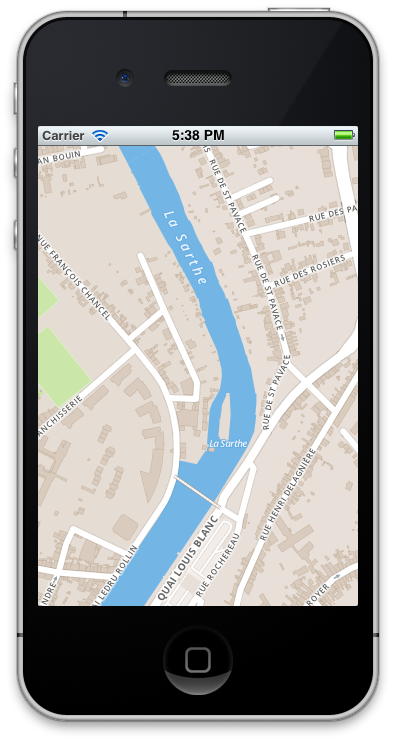
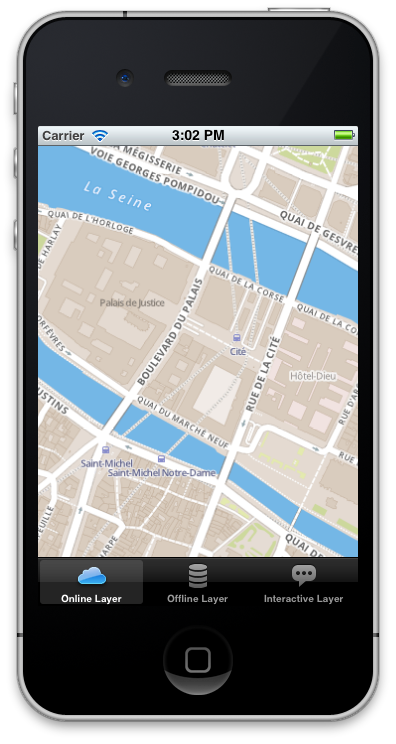
updated README & screenshot

diff --git a/README.md b/README.md
@@ -1,10 +1,15 @@
 # MapBox iOS Example
 
-This is an example showing the usage of `RMMapBoxSource` with Route-Me.
-Just grab the project, build it, and go. It should show a sweet-looking 
-map served from MapBox Hosting's server.
+This is an example showing usage of the MapBox iOS SDK for: 
 
- 1. `git submodule update --init` to pull down Route-Me
+ 1. Online tile sources (e.g., [MapBox Hosting](http://mapbox.com/plans/)) with `RMMapBoxSource`
+ 1. Offline tile sources ([MBTiles](http://mbtiles.org)) with `RMMBTilesSource`
+ 1. Interactive tile sources of both types ([read more about interactivity](http://developmentseed.org/blog/2011/may/16/tilemill-020-release) or [see an example map](http://tiles.mapbox.com/mapbox/map/geography-class)) with `RMInteractiveSource`
+
+Just grab the project, build it, and go. It should show a sweet-looking 
+map of each type.
+
+ 1. `git clone --recursive` to pull down dependencies
  1. Build & go!
 
 ![](https://github.com/mapbox/mapbox-ios-example/raw/master/screenshot.png)
